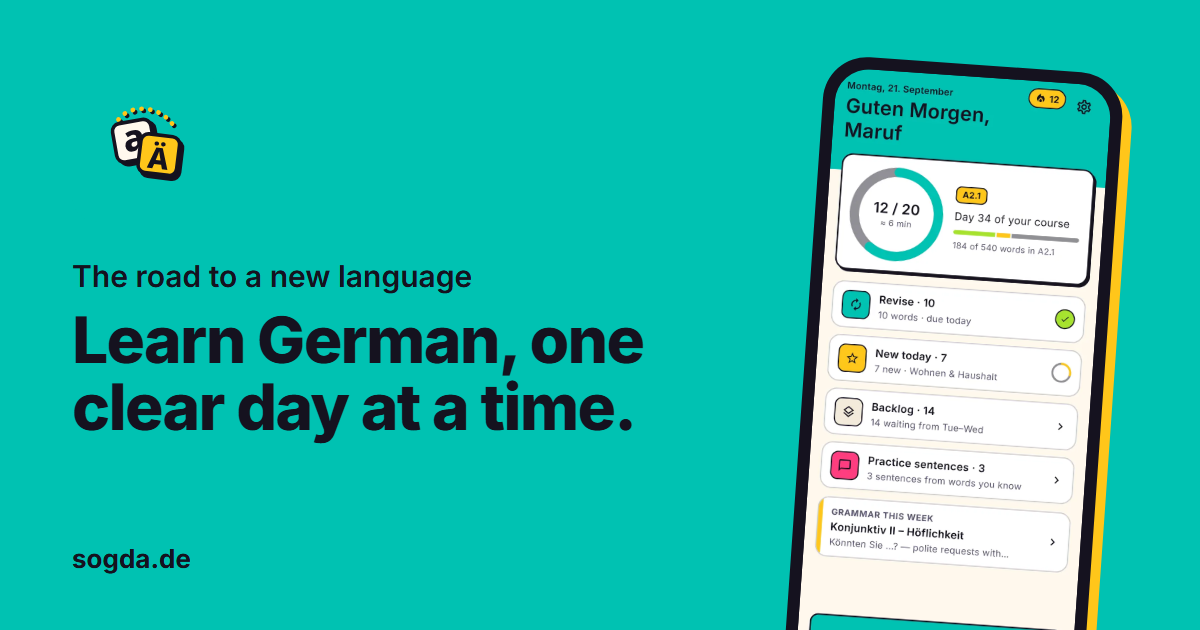
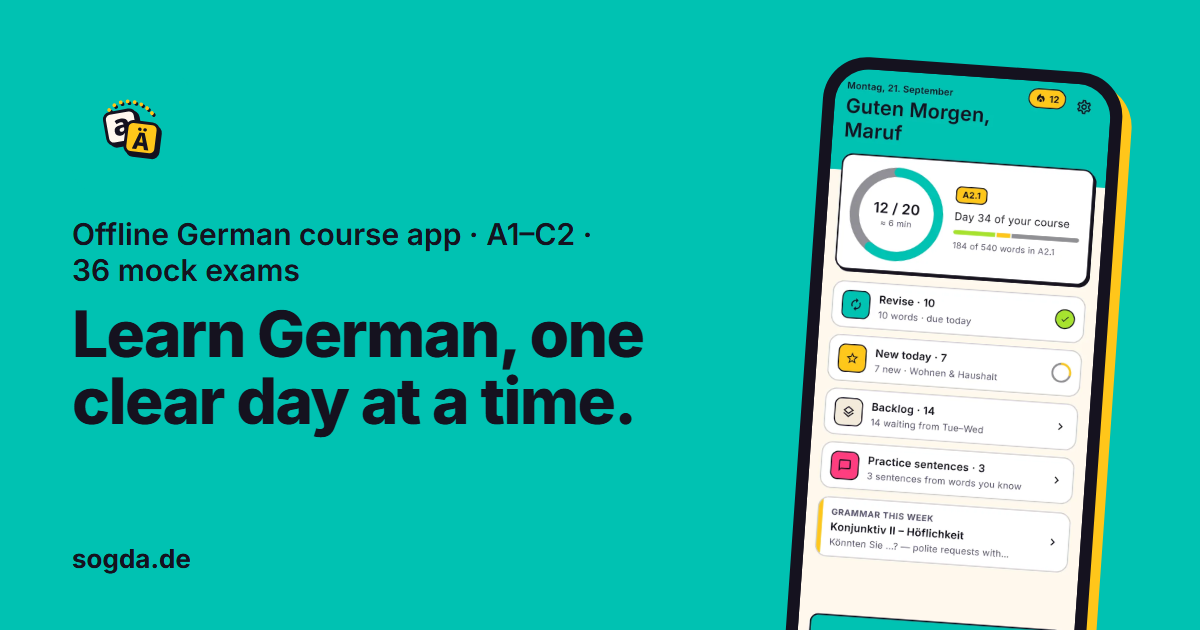
copy: the audit's fixes, a keyword eyebrow, and titles that say app / offline / A1–C2 / mock exams, in en/de/pl/ru (#59)
- de: «Weg ins Deutsche», «dich an ein Wort erinnerst»; the hero line
  «Tag für Tag, mit klarem Plan»; no comma before «und» in two titles.
- pl/ru: the calques and slips from #55's audit (the pleonasm, «po
  drodze» / «по пути», «dobierze» / «подберёт», not a school day,
  «Trzy motywy», «в метро / w metrze»).
- «Tag geschafft!» in every locale, with the translation after it.
- hero.kicker becomes the keyword eyebrow above the H1, with no-break
  spaces so each fact stays whole on narrow screens.
- Titles and descriptions carry the phrases people search in each
  language; never Goethe or telc in a title. de description at 150.
- The OG cards re-rendered with the new eyebrow; the mark is 120 px so
  the two-line eyebrow leaves «sogda.de» its room.
bn follows in its own PR, after a native check.

diff --git a/tests/hero.spec.ts b/tests/hero.spec.ts
@@ -5,7 +5,7 @@ test.describe('hero (BRIEF §3.1)', () => {
   test('the message and the store CTA, before the Play link exists', async ({ page }) => {
     await page.goto('/en');
     const hero = page.locator('#hero');
-    await expect(hero.getByText('The road to a new language')).toBeVisible();
+    await expect(hero.getByText('Offline German course app · A1–C2 · 36 mock exams')).toBeVisible();
     await expect(hero.getByRole('heading', { level: 1 })).toHaveText(
       'Learn German, one clear day at a time.',
     );

diff --git a/tests/day.spec.ts b/tests/day.spec.ts
@@ -7,7 +7,7 @@ const TITLES = [
   'Learn a few new words',
   'The grammar topic of the week',
   'Sentences from words you know',
-  'Day complete 🎉',
+  'Tag geschafft! Day complete 🎉',
 ];
 
 test.describe('A day with Sogda (BRIEF §3.2)', () => {
